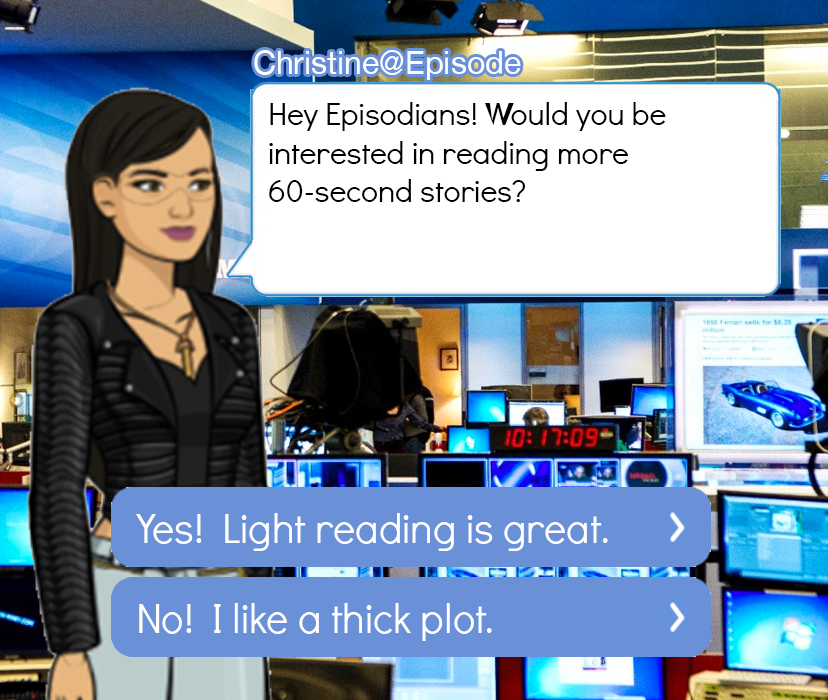
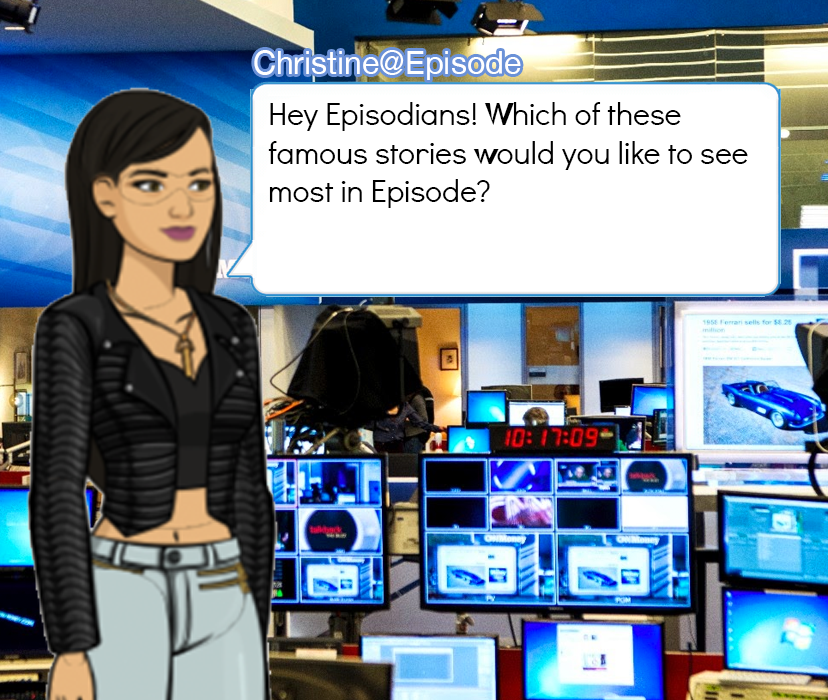
iterated based on last focus group

Changed region(s): [[0.1208, 0.69, 0.8756, 0.96], [0.3321, 0.21, 0.9058, 0.3], [0.6039, 0.15, 0.8152, 0.18]]

diff --git a/Model/GameModel.swift b/Model/GameModel.swift
@@ -82,17 +82,18 @@ class GameModel{
         feedLink.date = "Oct 24 2016"
         feedLink.imageNames = ["feedLink"]
         
-        let feedUser = FeedData()
-        feedUser.mugshotName = "mugshotChristine"
-        feedUser.username = "Christine@Episode"
-        feedUser.mediaName = "Shoutout"
-        feedUser.date = "Oct 24 2016"
-        feedUser.imageNames = ["feedMessageUser"]
+        
+        let feedInterview = FeedData()
+        feedInterview.mugshotName = "mugshotChristine"
+        feedInterview.username = "Christine@Episode"
+        feedInterview.mediaName = "Interview"
+        feedInterview.date = "Oct 24 2016"
+        feedInterview.imageNames = ["feedInterview0a", "feedInterview0b", "feedInterview0a", "feedInterview0b", "feedInterview1a", "feedInterview1b", "feedInterview1a", "feedInterview1b", "feedInterview2a", "feedInterview2b", "feedInterview2a", "feedInterview2b", "feedInterview3a", "feedInterview3b", "feedInterview3a", "feedInterview3b"]
         
         let feedChoiceFun = FeedData()
         feedChoiceFun.mugshotName = "mugshotColonelSanders"
         feedChoiceFun.username = "ColonelSanders"
-        feedChoiceFun.mediaName = "Survey"
+        feedChoiceFun.mediaName = "Choice"
         feedChoiceFun.date = "Oct 24 2016"
         feedChoiceFun.imageNames = ["feedChoiceFun"]
         feedChoiceFun.choices = [
@@ -103,9 +104,36 @@ class GameModel{
         let feedChoiceSerious = FeedData()
         feedChoiceSerious.mugshotName = "mugshotChristine"
         feedChoiceSerious.username = "Christine@Episode"
-        feedChoiceSerious.mediaName = "Survey"
+        feedChoiceSerious.mediaName = "Choice"
         feedChoiceSerious.date = "Oct 24 2016"
         feedChoiceSerious.imageNames = ["feedChoiceSerious"]
+        feedChoiceSerious.choices = [
+            (answer: "Clueless", percentage: CGFloat(0.45)),
+            (answer: "Smallville", percentage: CGFloat(0.55))
+        ]
+
+        
+        let feedEvent = FeedData()
+        feedEvent.mugshotName = "mugshotChristine"
+        feedEvent.username = "Christine@Episode"
+        feedEvent.mediaName = "Event"
+        feedEvent.date = "Oct 24 2016"
+        feedEvent.imageNames = ["feedEvent"]
+        feedEvent.choices = [
+            (answer: "Harley Quinn costume", percentage: CGFloat(0.75)),
+            (answer: "Sailor Moon dress", percentage: CGFloat(0.25))
+        ]
+        
+        let feedChoiceWriter = FeedData()
+        feedChoiceWriter.mugshotName = "mugshotMarlene"
+        feedChoiceWriter.username = "MarleneTheWriter"
+        feedChoiceWriter.mediaName = "Choice"
+        feedChoiceWriter.date = "Oct 24 2016"
+        feedChoiceWriter.imageNames = ["feedChoiceWriter"]
+        feedChoiceWriter.choices = [
+            (answer: "Ian", percentage: CGFloat(0.9)),
+            (answer: "Aria", percentage: CGFloat(0.1))
+        ]
         
         let feedScreenCapture = FeedData()
         feedScreenCapture.mugshotName = "mugshotCass"
@@ -117,14 +145,14 @@ class GameModel{
         let feedSceneCapture = FeedData()
         feedSceneCapture.mugshotName = "mugshotCass"
         feedSceneCapture.username = "Pink-Haired Cass"
-        feedSceneCapture.mediaName = "Screenshot from Old Maid Adventures"
+        feedSceneCapture.mediaName = "Loving Bad Teaser"
         feedSceneCapture.date = "Oct 24 2016"
-        feedSceneCapture.imageNames = ["feedSceneCapture"]
+        feedSceneCapture.imageNames = ["feedCapture0", "feedCapture1a", "feedCapture1b", "feedCapture1a", "feedCapture1b", "feedCapture2", "feedCapture3a", "feedCapture3b", "feedCapture3a", "feedCapture3b", "feedCapture4"]
         
         let feedShort = FeedData()
         feedShort.mugshotName = "mugshotColonelSanders"
         feedShort.username = "Colonel Sanders"
-        feedShort.mediaName = "Capture from The Colonel's Shorts"
+        feedShort.mediaName = "The Colonel's Shorts"
         feedShort.date = "Oct 24 2016"
         feedShort.imageNames = ["feedShort0a", "feedShort0b", "feedShort0a", "feedShort0b", "feedShort1a", "feedShort1b", "feedShort1a", "feedShort1b", "feedShort2a", "feedShort2b", "feedShort2a", "feedShort2b", "feedShort3a", "feedShort3b", "feedShort3a", "feedShort3b", "feedShort4a", "feedShort4b", "feedShort4a", "feedShort4b"]
         
@@ -133,14 +161,42 @@ class GameModel{
         feedGucci.username = "Angela"
         feedGucci.mediaName = "Profile Update"
         feedGucci.date = "Oct 24 2016"
-        feedGucci.imageNames = ["feedGucci"]
+        feedGucci.imageNames = ["feedGucci", "feedGucci2", "feedGucci", "feedGucci2", "feedGucci", "feedGucci2", "feedGucci", "feedGucci2"]
         
-        let feedDatas = [feedDataVideo, feedRec, feedCollab, feedLink, feedUser, feedChoiceFun, feedChoiceSerious, feedScreenCapture, feedSceneCapture, feedShort, feedGucci]
+        let feedDatas = [feedDataVideo, feedRec, feedCollab, feedLink, feedInterview, feedChoiceFun, feedChoiceSerious, feedEvent, feedChoiceWriter, feedSceneCapture, feedShort, feedGucci]
         return feedDatas
     }
     func getCommentThread(id:String) -> [CommentData] {
         switch(id){
-        case "story":
+        case "peanutGallery":
+            
+            let comment4 = CommentData()
+            comment4.mugshotImageName = "mugshotMax"
+            comment4.username = "Maximoose"
+            comment4.comment = "Everyone knows that's what your Honda is for."
+
+            let comment1 = CommentData()
+            comment1.mugshotImageName = "mugshotCass"
+            comment1.username = "Pink-Haired Cass"
+            comment1.comment = "No shame in PDA!"
+
+            let comment3 = CommentData()
+            comment3.mugshotImageName = "mugshotMarlene"
+            comment3.username = "MarleneTheWriter"
+            comment3.comment = "Believe it sister!"
+
+            let comment2 = CommentData()
+            comment2.mugshotImageName = "mugshotColonelSanders"
+            comment2.username = "Colonel Sanders"
+            comment2.comment = "Why didn't they stay and watch? That's what I would do."
+            
+            let comment5 = CommentData()
+            comment5.mugshotImageName = "mugshotChristine"
+            comment5.username = "Christine"
+            comment5.comment = "That looks more like Emily than Aria"
+            
+            return [comment4, comment1, comment3, comment2, comment5]
+        case "storyChoice":
             let comment1 = CommentData()
             comment1.mugshotImageName = "mugshotCass"
             comment1.username = "Pink-Haired Cass"

diff --git a/Controllers/StoryController.swift b/Controllers/StoryController.swift
@@ -9,10 +9,10 @@ class StoryController: UIViewController {
     @IBOutlet var choice: Choice!
     
     let frames = [
+        "story0",
         "story1",
         "story2",
-        "story4",
-        "story5"
+        "story3"
     ]
     @IBOutlet var storyMenu: UIImageView!
 
@@ -43,27 +43,25 @@ class StoryController: UIViewController {
     }
     func advanceFrame(){
         
-        if frameIndex == 3 && !didShowComments {
-            openComments()
+        if frameIndex == 1 && !didShowComments{
+            openComments(threadId: "peanutGallery")
+            didShowComments = true
+        } else if frameIndex == 3 && !didShowComments {
+            openComments(threadId: "storyChoice")
             didShowComments = true
         } else if frameIndex == frames.count - 1 {
             view.gestureRecognizers?.forEach(view.removeGestureRecognizer)
             openEndOfChapter()
         } else {
+            didShowComments = false
             goToFrame(index: frameIndex + 1)
         }
         
-        if frameIndex == 1 {
+        if frameIndex == 2 {
             choice.isHidden = false
             _ = choice.addChoice(label: "Confront him", percent: 0.25)
             _ = choice.addChoice(label: "Confront the woman", percent: 0.15)
             _ = choice.addChoice(label: "Flee the scene", percent: 0.6)
-        } else if frameIndex == 2 {
-            choice.isHidden = false
-            choice.clearChoices()
-            _ = choice.addChoice(label: "Honesty is best!", percent: 0.2)
-            _ = choice.addChoice(label: "Sometimes ignorances is bliss.", percent: 0.1)
-            _ = choice.addChoice(label: "Make HIM do it.", percent: 0.7)
         } else {
             choice.isHidden = true
         }
@@ -73,9 +71,9 @@ class StoryController: UIViewController {
     }
     
     //MARK: STORY MENUS
-    func openComments(){
+    func openComments(threadId:String){
         let masterController = getParentOfType(type: MasterController.self)!
-        let thread = masterController.gameModel.getCommentThread(id: "story")
+        let thread = masterController.gameModel.getCommentThread(id: threadId)
         let commentsController = CommentsController(thread: thread)
         commentsController.modalPresentationStyle = .overFullScreen
         //commentsController.isModalInPopover = true
